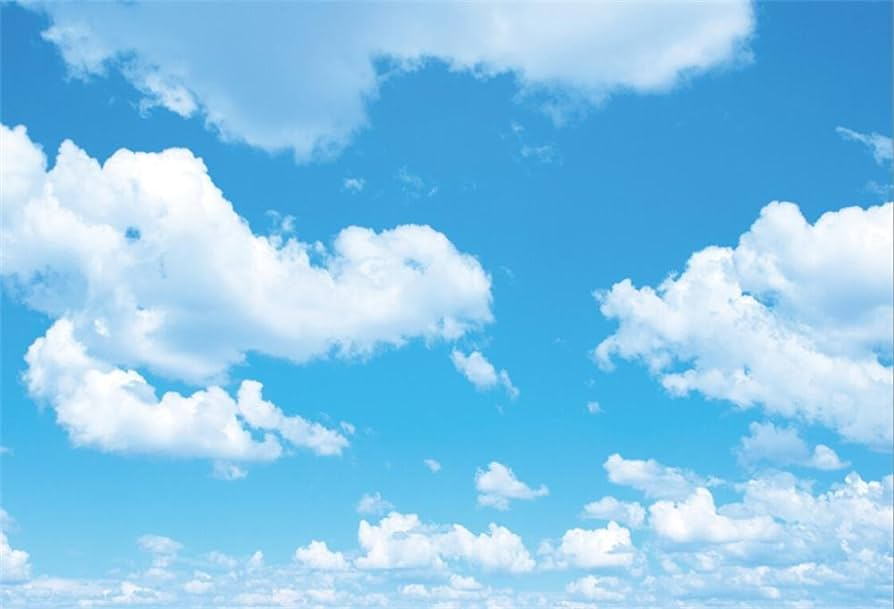
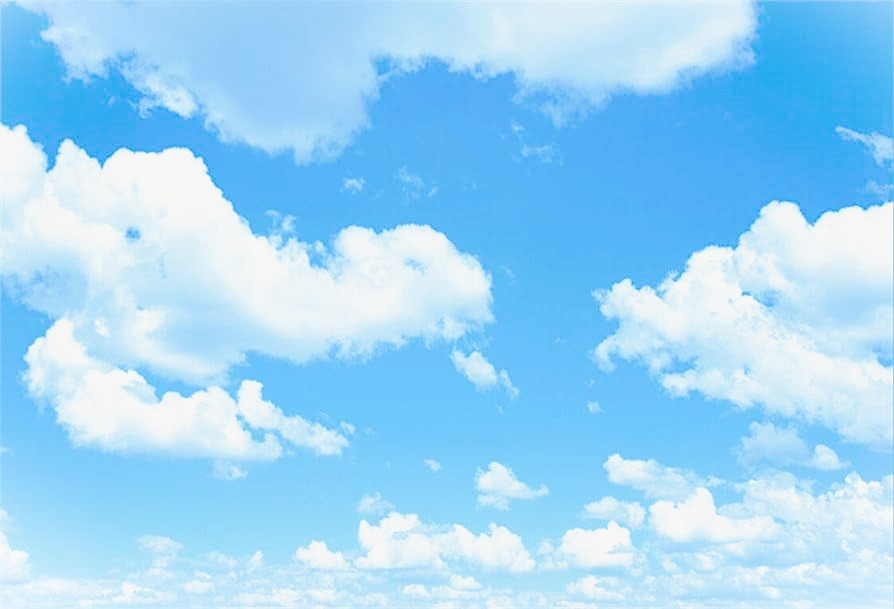
עב

diff --git a/client/src/components/ToVolunteer.jsx b/client/src/components/ToVolunteer.jsx
@@ -13,20 +13,20 @@ import 'primereact/resources/primereact.min.css';
 import 'primeicons/primeicons.css';
 function ToVolunteer() {
     const { currentUser, setCurrentUser } = useContext(UserContext);
-    const [categoriesArray, setCategoriesArray] = useState([{ אוכל: false }, { אירוח: false }, { משחקים: false }, { בייביסיטר: false }]);
+    const [categoriesArray, setCategoriesArray] = useState([{  food: false }, { hosting: false }, { toys: false }, { babysitter: false }]);
     const navigate = useNavigate();
     // const [categoriesArray, setCategoriesArray] = useState({
-    //     אוכל: false,
-    //     אירוח: false,
-    //     משחקים: false,
-    //     בייביסיטר: false
+    //      food: false,
+    //     hosting: false,
+    //     toys: false,
+    //     babysitter: false
     // });
 
     // const buttonsArray = [
-    //     { id: 'food', label: 'ארוחות חמות', key: 'אוכל', className: 'foodImg' },
-    //     { id: 'hosting', label: 'אירוח', key: 'אירוח', className: 'hostImg' },
-    //     { id: 'toys', label: 'משחקים לילדים', key: 'משחקים', className: 'toysImg' },
-    //     { id: 'babysitter', label: 'בייביסיטר', key: 'בייביסיטר', className: 'babysitterImg' }
+    //     { id: 'food', label: 'ארוחות חמות', key: ' food', className: 'foodImg' },
+    //     { id: 'hosting', label: 'hosting', key: 'hosting', className: 'hostImg' },
+    //     { id: 'toys', label: 'toys לילדים', key: 'toys', className: 'toysImg' },
+    //     { id: 'babysitter', label: 'babysitter', key: 'babysitter', className: 'babysitterImg' }
     // ];
 
     // const handleCheckboxChange = (key, value) => {
@@ -81,23 +81,23 @@ function ToVolunteer() {
                     <div className='type'>
                         <button onClick={foodImg} className='foodImg'></button>
                         <br />
-                        <label for="אוכל">ארוחות חמות</label>
-                        <input type="checkbox" id="food" name="food" value={categoriesArray.אוכל} onChange={(e) => setCategoriesArray({ אוכל: e.target.checked, אירוח: categoriesArray.אירוח, משחקים: categoriesArray.משחקים, בייביסיטר: categoriesArray.בייביסיטר })} /><br />
+                        <label for=" food">ארוחות חמות</label>
+                        <input type="checkbox" id="food" name="food" value={categoriesArray. food} onChange={(e) => setCategoriesArray({  food: e.target.checked, hosting: categoriesArray.hosting, toys: categoriesArray.toys, babysitter: categoriesArray.babysitter })} /><br />
                         <button onClick={hostImg} className='hostImg'></button>
                         <br />
-                        <label for="אירוח">אירוח</label>
-                        <input type="checkbox" id="hosting" name="hosting" value={categoriesArray.אירוח} onChange={(e) => setCategoriesArray({ אוכל: categoriesArray.אוכל, אירוח: e.target.checked, משחקים: categoriesArray.משחקים, בייביסיטר: categoriesArray.בייביסיטר })} /><br />
+                        <label for="hosting">אירוח</label>
+                        <input type="checkbox" id="hosting" name="hosting" value={categoriesArray.hosting} onChange={(e) => setCategoriesArray({  food: categoriesArray. food, hosting: e.target.checked, toys: categoriesArray.toys, babysitter: categoriesArray.babysitter })} /><br />
                     </div>
                     <div className='type'>
                         <button onClick={toysImg} className='toysImg'></button>
                         <br />
-                        <label for="משחקים">משחקים לילדים</label>
-                        <input type="checkbox" id="toys" name="toys" value={categoriesArray.משחקים} onChange={(e) => setCategoriesArray({ אוכל: categoriesArray.אוכל, אירוח: categoriesArray.אירוח, משחקים: e.target.checked, בייביסיטר: categoriesArray.בייביסיטר })} /><br />
+                        <label for="toys">משחקים לילדים</label>
+                        <input type="checkbox" id="toys" name="toys" value={categoriesArray.toys} onChange={(e) => setCategoriesArray({  food: categoriesArray. food, hosting: categoriesArray.hosting, toys: e.target.checked, babysitter: categoriesArray.babysitter })} /><br />
 
                         <button onClick={babysitterImg} className='babysitterImg'></button>
                         <br />
-                        <label for="בייביסיטר">ביביסיטר</label>
-                        <input type="checkbox" id="babysitter" name="babysitter" value={categoriesArray.בייביסיטר} onChange={(e) => setCategoriesArray({ אוכל: categoriesArray.אוכל, אירוח: categoriesArray.אירוח, משחקים: categoriesArray.משחקים, בייביסיטר: e.target.checked })} /><br />
+                        <label for="babysitter">בייביסיטר</label>
+                        <input type="checkbox" id="babysitter" name="babysitter" value={categoriesArray.babysitter} onChange={(e) => setCategoriesArray({  food: categoriesArray. food, hosting: categoriesArray.hosting, toys: categoriesArray.toys, babysitter: e.target.checked })} /><br />
                     </div>
                     <br/>
                     <button><submit button onClick={volunteering}>התנדבות</submit></button>
@@ -110,10 +110,10 @@ function ToVolunteer() {
 export default ToVolunteer;
 
     // const [categoriesArray, setCategoriesArray] = useState([
-    //     { id: 'food', label: 'ארוחות חמות', value: false, handler: (e) => setCategoriesArray({ אוכל: e.target.checked, אירוח: categoriesArray.אירוח, משחקים: categoriesArray.משחקים, בייביסיטר: categoriesArray.בייביסיטר }), className: 'foodImg' },
-    //     { id: 'hosting', label: 'אירוח', value: false, handler: (e) => setCategoriesArray({ אוכל: categoriesArray.אוכל, אירוח: e.target.checked, משחקים: categoriesArray.משחקים, בייביסיטר: categoriesArray.בייביסיטר }), className: 'hostImg' },
-    //     { id: 'toys', label: 'משחקים לילדים', value: false, handler: (e) => setCategoriesArray({ אוכל: categoriesArray.אוכל, אירוח: categoriesArray.אירוח, משחקים: e.target.checked, בייביסיטר: categoriesArray.בייביסיטר }), className: 'toysImg' },
-    //     { id: 'babysitter', label: 'בייביסיטר', value: false, handler: (e) => setCategoriesArray({ אוכל: categoriesArray.אוכל, אירוח: categoriesArray.אירוח, משחקים: categoriesArray.משחקים, בייביסיטר: e.target.checked }), className: 'babysitterImg' }
+    //     { id: 'food', label: 'ארוחות חמות', value: false, handler: (e) => setCategoriesArray({  food: e.target.checked, hosting: categoriesArray.hosting, toys: categoriesArray.toys, babysitter: categoriesArray.babysitter }), className: 'foodImg' },
+    //     { id: 'hosting', label: 'hosting', value: false, handler: (e) => setCategoriesArray({  food: categoriesArray. food, hosting: e.target.checked, toys: categoriesArray.toys, babysitter: categoriesArray.babysitter }), className: 'hostImg' },
+    //     { id: 'toys', label: 'toys לילדים', value: false, handler: (e) => setCategoriesArray({  food: categoriesArray. food, hosting: categoriesArray.hosting, toys: e.target.checked, babysitter: categoriesArray.babysitter }), className: 'toysImg' },
+    //     { id: 'babysitter', label: 'babysitter', value: false, handler: (e) => setCategoriesArray({  food: categoriesArray. food, hosting: categoriesArray.hosting, toys: categoriesArray.toys, babysitter: e.target.checked }), className: 'babysitterImg' }
     // ]);
 
 

diff --git a/client/src/components/ToNeedy.jsx b/client/src/components/ToNeedy.jsx
@@ -8,20 +8,20 @@ import Buttom from './Buttom';
 import Header from './Header';
 const ToNeedy = () => {
     const { currentUser, setCurrentUser } = useContext(UserContext);
-    const [categoriesArray, setCategoriesArray] = useState([{ אוכל: false }, { אירוח: false }, { משחקים: false }, { בייביסיטר: false }]);
+    const [categoriesArray, setCategoriesArray] = useState([{  food: false }, { hosting: false }, { toys: false }, { babysitter: false }]);
     const navigate = useNavigate();
     // const [categoriesArray, setCategoriesArray] = useState({
-    //     אוכל: false,
-    //     אירוח: false,
-    //     משחקים: false,
-    //     בייביסיטר: false
+    //      food: false,
+    //     hosting: false,
+    //     toys: false,
+    //     babysitter: false
     // });
 
     // const buttonsArray = [
-    //     { id: 'food', label: 'ארוחות חמות', key: 'אוכל', className: 'foodImg' },
-    //     { id: 'hosting', label: 'אירוח', key: 'אירוח', className: 'hostImg' },
-    //     { id: 'toys', label: 'משחקים לילדים', key: 'משחקים', className: 'toysImg' },
-    //     { id: 'babysitter', label: 'בייביסיטר', key: 'בייביסיטר', className: 'babysitterImg' }
+    //     { id: 'food', label: 'ארוחות חמות', key: ' food', className: 'foodImg' },
+    //     { id: 'hosting', label: 'hosting', key: 'hosting', className: 'hostImg' },
+    //     { id: 'toys', label: 'toys לילדים', key: 'toys', className: 'toysImg' },
+    //     { id: 'babysitter', label: 'babysitter', key: 'babysitter', className: 'babysitterImg' }
     // ];
 
     // const handleCheckboxChange = (key, value) => {
@@ -85,26 +85,26 @@ const ToNeedy = () => {
                     <div className='type'>
                         <button onClick={foodImg} className='foodImg'></button>
                         <br />
-                        <label for="אוכל">ארוחות חמות</label>
-                        <input type="checkbox" id="food" name="food" value={categoriesArray.אוכל} onChange={(e) => setCategoriesArray({ אוכל: e.target.checked, אירוח: categoriesArray.אירוח, משחקים: categoriesArray.משחקים, בייביסיטר: categoriesArray.בייביסיטר })} /><br />
+                        <label for=" food">ארוחות חמות</label>
+                        <input type="checkbox" id="food" name="food" value={categoriesArray. food} onChange={(e) => setCategoriesArray({  food: e.target.checked, hosting: categoriesArray.hosting, toys: categoriesArray.toys, babysitter: categoriesArray.babysitter })} /><br />
                         <button onClick={hostImg} className='hostImg'></button>
                         <br />
-                        <label for="אירוח">אירוח</label>
-                        <input type="checkbox" id="hosting" name="hosting" value={categoriesArray.אירוח} onChange={(e) => setCategoriesArray({ אוכל: categoriesArray.אוכל, אירוח: e.target.checked, משחקים: categoriesArray.משחקים, בייביסיטר: categoriesArray.בייביסיטר })} /><br />
+                        <label for="hosting">אירוח</label>
+                        <input type="checkbox" id="hosting" name="hosting" value={categoriesArray.hosting} onChange={(e) => setCategoriesArray({  food: categoriesArray. food, hosting: e.target.checked, toys: categoriesArray.toys, babysitter: categoriesArray.babysitter })} /><br />
                     </div>
                     <div className='type'>
                         <button onClick={toysImg} className='toysImg'></button>
                         <br />
-                        <label for="משחקים">משחקים לילדים</label>
-                        <input type="checkbox" id="toys" name="toys" value={categoriesArray.משחקים} onChange={(e) => setCategoriesArray({ אוכל: categoriesArray.אוכל, אירוח: categoriesArray.אירוח, משחקים: e.target.checked, בייביסיטר: categoriesArray.בייביסיטר })} /><br />
+                        <label for="toys">משחקים לילדים</label>
+                        <input type="checkbox" id="toys" name="toys" value={categoriesArray.toys} onChange={(e) => setCategoriesArray({  food: categoriesArray. food, hosting: categoriesArray.hosting, toys: e.target.checked, babysitter: categoriesArray.babysitter })} /><br />
 
                         <button onClick={babysitterImg} className='babysitterImg'></button>
                         <br />
-                        <label for="בייביסיטר">ביביסיטר</label>
-                        <input type="checkbox" id="babysitter" name="babysitter" value={categoriesArray.בייביסיטר} onChange={(e) => setCategoriesArray({ אוכל: categoriesArray.אוכל, אירוח: categoriesArray.אירוח, משחקים: categoriesArray.משחקים, בייביסיטר: e.target.checked })} /><br />
+                        <label for="babysitter">בייביסיטר</label>
+                        <input type="checkbox" id="babysitter" name="babysitter" value={categoriesArray.babysitter} onChange={(e) => setCategoriesArray({  food: categoriesArray. food, hosting: categoriesArray.hosting, toys: categoriesArray.toys, babysitter: e.target.checked })} /><br />
                     </div>
                     <br/>
-                    <button><submit button onClick={getHelp}>התנדבות</submit></button>
+                    <button><submit button onClick={getHelp}>לבקשת עזרה</submit></button>
                 </form>}
             </div>
             <Buttom />

diff --git a/client/src/Style.css b/client/src/Style.css
@@ -9,12 +9,10 @@
 }
 @keyframes backgroundAnimation {
     0% {
-        background-image: url('Photos/sky.jpg');
+        background-image: linear-gradient(rgba(255, 255, 255, 0.7), rgba(255, 255, 255, 0.3)) ,url('Photos/sky.jpg') ;
     }
-
     100% {
-        background-image: url('Photos/sky.jpg');
-        /* filter: opacity(0.5); */
+        background-image: linear-gradient(rgba(255, 255, 255, 0.7), rgba(255, 255, 255, 0.3)) ,url('Photos/sky.jpg');
     }
 }
 .backgroundAnimation{
@@ -37,7 +35,7 @@
     width: 100%;
     display: flex;
     justify-content: center;
-    background-color: rgb(3, 175, 206);
+    background-color: rgb(81, 180, 251);
     animation: moveLeftToRight 15s linear infinite;
 }
 
@@ -52,7 +50,7 @@ body {
     height: 100vh;
     background-size: cover;
     background-repeat: no-repeat;
-    background-color: rgb(211, 244, 250);
+    background-color: rgb(246, 249, 251);
     background-image: url('Photos/sky.jpg');
     animation: backgroundAnimation 5s infinite;
     display: grid;
@@ -70,14 +68,14 @@ button {
     font-size: 1em;
     font-weight: 500;
     font-family: inherit;
-    background-color: rgb(3, 175, 206);
+    background-color: rgb(81, 180, 251);
     cursor: pointer;
     transition: border-color 0.25s;
 }
 
 button:hover {
     border-color: aliceblue;
-    background-color: rgb(3, 175, 206);
+    background-color: rgb(81, 180, 251);
 }
 
 button:focus,
@@ -90,7 +88,7 @@ label {
 }
 
 input {
-    background-color: rgb(3, 175, 206);
+    background-color: rgb(81, 180, 251);
     border-radius: 14px;
     border: 2px solid transparent;
     padding: 0.6em 1.2em;
@@ -109,7 +107,7 @@ input {
     width: 100%;
     display: flex;
     justify-content: center;
-    background-color: rgb(3, 175, 206);
+    background-color: rgb(81, 180, 251);
     z-index: 1000; /* ensure the header stays on top */
     box-shadow: 0 2px 4px rgba(0, 0, 0, 0.1); /* add a slight shadow for depth */
 }
@@ -118,14 +116,14 @@ input {
     font-size: 1em;
     font-weight: 500;
     font-family: inherit;
-    background-color: rgb(3, 175, 206);
+    background-color: rgb(81, 180, 251); 
     cursor: pointer;
     transition: background-color 0.25s;
     height: 50px;
 }
 
 .HeaderButton:hover {
-    background-color: rgb(211, 244, 250);
+    background-color: rgb(246, 249, 251);
 }
 
 .divStyle,
@@ -138,7 +136,7 @@ input {
     min-width: 320px;
     min-height: 100vh;
     border-radius: 5px;
-    background-color: rgb(211, 244, 250);
+    background-color: rgb(246, 249, 251);
     padding: 20px;
     gap: 10px;
 }
@@ -222,13 +220,13 @@ form {
 }
 
 .custom-button:hover {
-    background-color: rgb(3, 175, 206) !important;
-    /* border-color: rgb(211, 244, 250) !important; */
+    background-color: rgb(81, 180, 251) !important;
+    /* border-color: rgb(246, 249, 251) !important; */
 }
 
 .custom-button {
     background-color: rgb(162, 223, 234) !important;
-    /* border-color: rgb(3, 175, 206) !important; */
+    /* border-color: rgb(81, 180, 251) !important; */
 }
 .Header {
     position: fixed;
@@ -237,7 +235,7 @@ form {
     width: 100%;
     display: flex;
     justify-content: center;
-    background-color: rgb(3, 175, 206);
+    background-color: rgb(81, 180, 251);
     z-index: 1000; /* ensure the header stays on top */
     box-shadow: 0 2px 4px rgba(0, 0, 0, 0.1); /* add a slight shadow for depth */
 }

diff --git a/client/src/fetchFile.jsx b/client/src/fetchFile.jsx
@@ -12,7 +12,7 @@ async function fetchPostReq(route, body) {
         console.log("hgjghjjjjjjjjjjj ", body)
         const json = await response.json();
         const data = await json;
-        
+
         return data;
     }
     catch (err) {
@@ -20,11 +20,11 @@ async function fetchPostReq(route, body) {
     }
 }
 
-async function GetByReq(route, idcategoryArray, usernamevolunteers) {
+async function fetchGetByReq(route, idcategoryArray, usernamevolunteers) {
     try {
-        if(route!="login"&&route!="register"){
+        // if (route != "login" && route != "register") {
 
-            }
+        // }
         const response = await fetch(`http://localhost:8080/${route}/${idcategoryArray}/${usernamevolunteers}`, {
             method: 'GET',
             // body: JSON.stringify(body),
@@ -73,4 +73,4 @@ async function fetchDeleteReq(route, params) {
 }
 
 // export { fetchPostReq, fetchGetReq, fetchGetByReq, fetchDeleteReq };
-export { fetchPostReq, fetchGetReq, fetchDeleteReq };
+export { fetchPostReq, fetchGetReq, fetchDeleteReq, fetchGetByReq };

diff --git a/client/src/components/Volunteer.jsx b/client/src/components/Volunteer.jsx
@@ -9,7 +9,7 @@ import { useLocation, useNavigate } from 'react-router-dom';
 // import { useParams } from 'react-router-dom';
 import { fetchPostReq } from '../fetchFile';
 import { fetchDeleteReq } from '../fetchFile';
-// import { fetchGetByReq } from '../fetchFile';
+import { fetchGetByReq } from '../fetchFile';
 import { PostEmail } from '../EmailFunction';
 // import { PostEmail } from '../EmailFunction';
 
@@ -32,7 +32,7 @@ function Volunteer() {
                 const fetchedData = await response;
                 setData(fetchedData);
                 const allArraysEmpty = fetchedData.every(innerArray => innerArray.length === 0);
-                console.log(allArraysEmpty)
+                console.log("allArraysEmpty ", allArraysEmpty)
                 if (allArraysEmpty) {
                     setShowEmptyArray(true);
                     setShowComponent(false);

diff --git a/client/src/components/Needy.jsx b/client/src/components/Needy.jsx
@@ -8,7 +8,7 @@ import Buttom from './Buttom';
 import Header from './Header';
 const ToNeedy = () => {
     const { currentUser, setCurrentUser } = useContext(UserContext);
-    const [categoriesArray, setCategoriesArray] = useState([{ אוכל: false }, { אירוח: false }, { משחקים: false }, { בייביסיטר: false }]);
+    const [categoriesArray, setCategoriesArray] = useState([{  food: false }, { hosting: false }, { toys: false }, { babysitter: false }]);
     const navigate = useNavigate();
 
     return (

diff --git a/client/src/components/Home.jsx b/client/src/components/Home.jsx
@@ -9,7 +9,7 @@ import Buttom from './Buttom';
 
 function Home() {
     const { currentUser, setCurrentUser } = useContext(UserContext);
-    const [categoriesArray, setCategoriesArray] = useState([{ אוכל: false }, { אירוח: false }, { משחקים: false }, { בייביסיטר: false }]);
+    const [categoriesArray, setCategoriesArray] = useState([{  food: false }, { hosting: false }, { toys: false }, { babysitter: false }]);
     const navigate = useNavigate();
 
     return (
